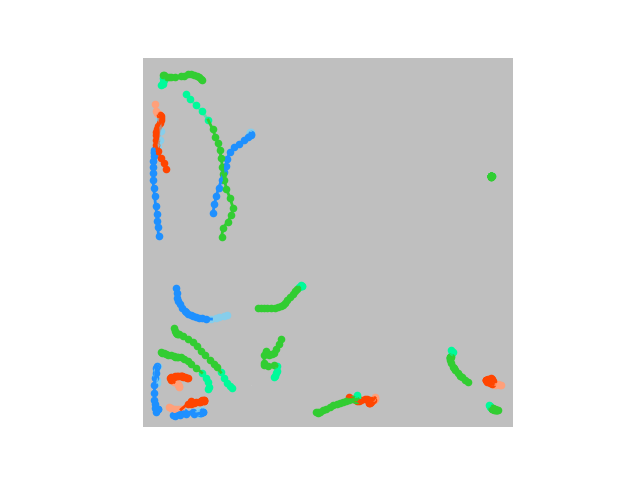
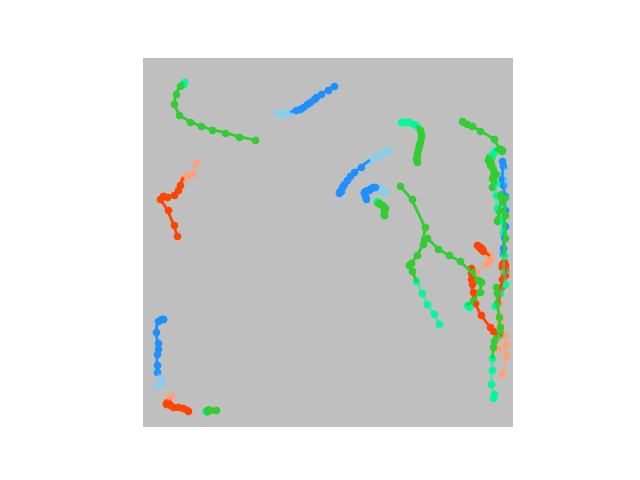
setting up experiments - still in mess3

diff --git a/experiments.py b/experiments.py
@@ -1,5 +1,5 @@
 import numpy as np
-
+import time
 import os
 import sys
 import argparse
@@ -43,7 +43,7 @@ print('device:',device)
 
 
 def train( train_loader, epoch, rel_rec, rel_send, model, encoder_timesteps, recompute_gap, total_pred_steps,tau):
-
+    starting_epoch_time = time.time()
     set_seed(42)
     model.train()
     total_iter_num = len(train_loader)
@@ -53,12 +53,14 @@ def train( train_loader, epoch, rel_rec, rel_send, model, encoder_timesteps, rec
     I_HG = None
     print(epoch , "epoch")
     for data in train_loader:
-        past_traj = data['past_traj']  # Shape: [batch_size, num_fish, obs_len, 2]
-        future_traj = data['future_traj']
+        past_traj = data['past_traj'].to(device)  # Shape: [batch_size, num_fish, obs_len, 2]
+        future_traj = data['future_traj'].to(device)
 
-        output_lists, h_g, h_hg, rel_rec, rel_send, L_SM, L_SH , L_SP, L_KL = model(past_traj,total_pred_steps,encoder_timesteps,recompute_gap,rel_rec,rel_send,tau,h_g, h_hg)
+        output_lists, h_g, h_hg, rel_rec, rel_send, L_SM, L_SH, L_SP, L_KL = model(past_traj, total_pred_steps,
+                                                                                   encoder_timesteps, recompute_gap,
+                                                                                   rel_rec, rel_send, tau, h_g, h_hg)
 
-        h_g = h_g.detach() if h_g is not None else None #for not breaking the computational graph!
+        h_g = h_g.detach() if h_g is not None else None  # for not breaking the computational graph!
         h_hg = h_hg.detach() if h_hg is not None else None
         # print(len(output_lists))
         #
@@ -69,23 +71,23 @@ def train( train_loader, epoch, rel_rec, rel_send, model, encoder_timesteps, rec
         #     iter_num += 1
 
         pred_trajs = torch.cat(output_lists["trajs"], dim=2)  # Concatenate along time (dim=2)
-        #prin("Concatenated predictions shape:", pred_trajs.shape)
-        #prin("future, ", future_traj.shape)
+        # prin("Concatenated predictions shape:", pred_trajs.shape)
+        # prin("future, ", future_traj.shape)
 
         # Compare predictions with ground truth
-        L_Rec = F.mse_loss(pred_trajs, future_traj, reduction='mean')  # Mean Squared Error
-        print("Reconstruction Loss (L_Rec):", L_Rec.item())
+        # L_Rec = F.mse_loss(pred_trajs, future_traj, reduction='mean')  # Mean Squared Error
+        # print("Reconstruction Loss (L_Rec):", L_Rec.item())
 
         means = torch.cat(output_lists["mus"], dim=2).mean(dim=3)
         L_Rec_2 = F.mse_loss(future_traj, means)
-        print("Reconstruction Loss 2 (L_Rec):", L_Rec_2.item())
 
-        print(L_SM.item())
-        print(L_SH.item())
-        print(L_SP.item())
-        print(L_KL.item())
-        print(iter_num, "iterations")
-        iter_num += 1
+        if iter_num % 2 == 0:
+            print("Reconstruction Loss 2 (L_Rec):", L_Rec_2.item())
+            print("L_SM", L_SM.item())
+            print("L_SH", L_SH.item())
+            print("L_SP", L_SP.item())
+            print("L_KL", L_KL.item())
+            print(iter_num, "iterations")
         # # Update inputs for the next batch
         # if trust_predictions:
         #     inputs = torch.cat((history_inputs[:, :, -(T_h - T_p):, :], output_traj), dim=2)
@@ -94,11 +96,19 @@ def train( train_loader, epoch, rel_rec, rel_send, model, encoder_timesteps, rec
         #
         """ optimize """
         optimizer.zero_grad()
-        total_loss = L_Rec_2  + L_SM+L_SH+L_SP
-        print("total_loss", total_loss.item())
+        total_loss = L_Rec_2 + L_SM + L_SH + L_SP + L_KL
+        if iter_num % 2 == 0:
+            print("total_loss", total_loss.item())
+            end_time = time.time()
+            elapsed_time = end_time - starting_epoch_time
+            print(f"Elapsed time for iteration {iter_num}: {elapsed_time:.2f} seconds")
+
         total_loss.backward()
         optimizer.step()
+        iter_num += 1
     scheduler.step()
+    loss_list = [L_SM.item(), L_SH.item(), L_SP.item(), L_KL.item(), L_Rec_2.item(), total_loss.item()]
+    return loss_list
 
 
         # if iter_num % iternum_print == 0:
@@ -111,10 +121,10 @@ def train( train_loader, epoch, rel_rec, rel_send, model, encoder_timesteps, rec
 
 ''' arguments'''
 
-lr = 1e-4
+lr = 0.001
 n_in = 10
 decay_step =10
-decay_gamma = 0.5
+decay_gamma = 0.85
 batch_size = 32
 num_epochs = 10
 n_hid = 128
@@ -122,9 +132,9 @@ n_out = 5
 tau = 1
 n_head=1
 do_prob = 0.2 #todo check this
-Ledge = 30
-Lhyper = 10
-num_cores= 5
+Ledge = 3
+Lhyper = 3
+num_cores= 3
 encoder_timesteps = 5
 recompute_gap = 5
 total_pred_steps=15
@@ -157,21 +167,22 @@ train_loader = DataLoader(
     pin_memory=True)
 
 
-edge = fully_connected_graph(agents_number)
-rel_rec, rel_send = edge_idx(edge,agents_number )
-rel_rec =rel_rec.unsqueeze(0)
-rel_send =rel_send.unsqueeze(0)
+
 
 
 """ start training """
 model.to(device)
 for epoch in range(0, num_epochs):
-    train(train_loader,epoch, rel_rec, rel_send, model,encoder_timesteps, recompute_gap, total_pred_steps,tau)
-
+    edge = fully_connected_graph(agents_number)
+    rel_rec, rel_send = edge_idx(edge, agents_number)
+    rel_rec = rel_rec.unsqueeze(0)
+    rel_send = rel_send.unsqueeze(0)
+    loss = train(train_loader, epoch, rel_rec, rel_send, model, encoder_timesteps, recompute_gap, total_pred_steps, tau)
 
     """ save model """
-    if  (epoch + 1) % model_save_epoch == 0:
-        model_saved = {'model_dict': model.state_dict(), 'optimizer': optimizer.state_dict(), 'scheduler': scheduler.state_dict(), 'epoch': epoch + 1}
-        saved_path = os.path.join(model_save_dir,str(epoch+1)+'.p')
+    if (epoch + 1) % model_save_epoch == 0:
+        model_saved = {'model_dict': model.state_dict(), 'optimizer': optimizer.state_dict(),
+                       'scheduler': scheduler.state_dict(), 'epoch': epoch + 1, 'loss': loss}
+        saved_path = os.path.join(model_save_dir, str(epoch + 1) + '.p')
         print("model saved")
         torch.save(model_saved, saved_path)

diff --git a/test_nba.py b/test_nba.py
@@ -20,21 +20,21 @@ class Constant:
     NORMALIZATION_COEF = 7
     PLAYER_CIRCLE_SIZE = 12 / NORMALIZATION_COEF
     INTERVAL = 10
-    # DIFF = 0
-    DIFF = 6
+    DIFF = 0
+    # DIFF = 6
     X_MIN = 0
-    # X_MAX = 1000
-    X_MAX = 100
+    X_MAX = 1000
+    # X_MAX = 100
     Y_MIN = 0
-    # Y_MAX = 1000
-    Y_MAX = 50
+    Y_MAX = 1000
+    # Y_MAX = 50
     COL_WIDTH = 0.3
     SCALE = 1.65
     FONTSIZE = 6
-    X_CENTER = X_MAX / 2 - DIFF / 1.5 + 0.10
-    # X_CENTER = 500
-    Y_CENTER = Y_MAX - DIFF / 1.5 - 0.35
-    # Y_CENTER = 500
+    # X_CENTER = X_MAX / 2 - DIFF / 1.5 + 0.10
+    X_CENTER = 500
+    # Y_CENTER = Y_MAX - DIFF / 1.5 - 0.35
+    Y_CENTER = 500
     MESSAGE = 'You can rerun the script and choose any event from 0 to '
 
 def draw_result(future,past,mode='pre'):
@@ -46,7 +46,7 @@ def draw_result(future,past,mode='pre'):
     for idx in range(10):
         plt.clf()
         traj = trajs[idx]#per batch?
-        traj = traj*94/28
+        # traj = traj*94/28
         actor_num = traj.shape[0]
         length = traj.shape[1]
         
@@ -93,15 +93,15 @@ def draw_result(future,past,mode='pre'):
                 else:
                     plt.plot(x, y, color=color,alpha=1,linewidth=2)
 
-        # court = plt.imread("datasets/fish/tank2.png")
-        court = plt.imread("datasets/nba/court.png")
+        court = plt.imread("datasets/fish/tank2.png")
+        # court = plt.imread("datasets/nba/court.png")
 
         plt.imshow(court, zorder=0, extent=[Constant.X_MIN, Constant.X_MAX - Constant.DIFF,
                                             Constant.Y_MAX, Constant.Y_MIN],alpha=0.5)
         if mode == 'pre':
-            plt.savefig('vis/nba_from_groupnet/'+str(idx)+'pre.png')
+            plt.savefig('vis/fish/'+str(idx)+'pre.png')
         else:
-            plt.savefig('vis/nba_from_groupnet/'+str(idx)+'gt.png')
+            plt.savefig('vis/fish/'+str(idx)+'gt.png')
     print('ok')
     return 
 
@@ -262,7 +262,7 @@ if __name__ == '__main__':
     torch.set_grad_enabled(False)
 
 
-    test_dset = NBADataset(
+    test_dset = FISHDataset(
         obs_len=args.past_length,
         pred_len=args.future_length,
         training=False)

diff --git a/model/encoder.py b/model/encoder.py
@@ -509,7 +509,7 @@ class MLPEncoder(nn.Module):
             self.out_dim = n_hid // num_heads
 
         # Final node MLP
-        self.f_CG_v = MLP(num_heads * self.out_dim if concat_heads else self.out_dim, self.out_dim, self.out_dim, do_prob)
+        self.f_CG_v = MLP(num_heads * self.out_dim if concat_heads else self.out_dim, self.out_dim, n_out, do_prob)
         self.mlp3 = MLP(n_hid, n_hid, n_hid, do_prob)
         self.mlp4 = MLP(n_hid * 3 if factor else n_hid * 2, n_hid, n_hid, do_prob)
         self.fc_out = nn.Linear(n_hid, n_out)
@@ -552,19 +552,21 @@ class MLPEncoder(nn.Module):
         # x = self.node2edge(x, rel_rec, rel_send)
 
         x = self.f_CG_v(v_social)
-        x_skip = x #skip connection
+        # x_skip = x #skip connection
+        #
+        # if self.factor:
+        #     x = self.node2edge(x, rel_rec, rel_send)
+        #     #print(f'this is X after edge to node{x.shape}')
+        #     x = self.mlp3(x)
+        #     x = self.edge2node(x, rel_rec, rel_send)
+        #     #print(f'this is X after node to edge 2 {x.shape}')
+        #     x = torch.cat((x, x_skip), dim=2) #back and forth conversion?
+        #     #print(f' x after skip connection{x.shape}')
+        #     x = self.mlp4(x)
+        # else:
+        #     x = self.mlp3(x)
+        #     x = torch.cat((x, x_skip), dim=2)
+        #     x = self.mlp4(x)
+        # return self.fc_out(x), v_self, alpha_ij
+        return x, v_self, alpha_ij
 
-        if self.factor:
-            x = self.node2edge(x, rel_rec, rel_send)
-            #print(f'this is X after edge to node{x.shape}')
-            x = self.mlp3(x)
-            x = self.edge2node(x, rel_rec, rel_send)
-            #print(f'this is X after node to edge 2 {x.shape}')
-            x = torch.cat((x, x_skip), dim=2) #back and forth conversion?
-            #print(f' x after skip connection{x.shape}')
-            x = self.mlp4(x)
-        else:
-            x = self.mlp3(x)
-            x = torch.cat((x, x_skip), dim=2)
-            x = self.mlp4(x)
-        return self.fc_out(x), v_self, alpha_ij

diff --git a/model/decoder.py b/model/decoder.py
@@ -177,7 +177,7 @@ class RNNDecoder(nn.Module):
             F.relu(self.out_fc1(torch.cat((hidden_g, hidden_hg), dim=-1))),
             p=self.dropout_prob,)
 
-        v = F.dropout(F.relu(self.out_fc2(v)), p=self.dropout_prob)
+        # v = F.dropout(F.relu(self.out_fc2(v)), p=self.dropout_prob)
 
         #print("v", v.shape)
         # print(pred[0,0])
@@ -234,7 +234,7 @@ class RNNDecoder(nn.Module):
         hidden_hg =1
 
         for step in range(output_steps):
-            print("@@@@@@@@@@@@@@@@@@@@@@@@@@@@@@@@@@@ step", step)
+            # print("@@@@@@@@@@@@@@@@@@@@@@@@@@@@@@@@@@@ step", step)
             if step < burn_in_steps:
                 ins = inputs[:, step, :, :] #takes only 1 T?...
             else:
@@ -262,7 +262,7 @@ class RNNDecoder(nn.Module):
         mus = torch.stack(mu_all, dim=2)
         sigmas = torch.stack(sigma_all, dim=2)
 
-        print(preds.transpose(1, 2).contiguous().shape, alphas.shape, mus.shape, sigmas.shape)
+        # print(preds.transpose(1, 2).contiguous().shape, alphas.shape, mus.shape, sigmas.shape)
         # print(preds.transpose(1, 2).contiguous())
         # print(data)
         return preds.transpose(1, 2).contiguous(), alphas, mus, sigmas

diff --git a/model/HGNN_model_fish.py b/model/HGNN_model_fish.py
@@ -249,7 +249,7 @@ class HGNNModelFish(nn.Module):
 
             # print("new_rel_rec", new_rel_rec.shape)
             # print("new_rel_rec", new_rel_rec)
-            print("new_hyperedge_types", new_hyperedge_types)
+            # print("new_hyperedge_types", new_hyperedge_types)
             # print("new_I_HG", new_I_HG)
 
             rel_rec = new_rel_rec
@@ -288,10 +288,10 @@ class HGNNModelFish(nn.Module):
             output_lists["mus"].append(mus)
             output_lists["sigmas"].append(sigmas)
 
-        L_SM = compute_smoothness_loss(Z_CG_LIST,Z_HG_LIST,0.1,0.1)
-        L_SH = sharpnessLoss(Z_CG_LIST,Z_HG_LIST,0.1,0.1)
-        L_SP = sparsity_loss(Z_CG_LIST,Z_HG_LIST,0.1,0.1, self.device)
-        L_KL = compute_kl_divergence_loss(Z_CG_LIST,Z_HG_LIST,0.1,0.1)
+        L_SM = compute_smoothness_loss(Z_CG_LIST,Z_HG_LIST,0.001,0.001)
+        L_SH = sharpnessLoss(Z_CG_LIST,Z_HG_LIST,0.001,0.001)
+        L_SP = sparsity_loss(Z_CG_LIST,Z_HG_LIST,0.001,0.001, self.device)
+        L_KL = compute_kl_divergence_loss(Z_CG_LIST,Z_HG_LIST,0.001,0.001)
 
         return output_lists,h_g, h_hg, rel_rec, rel_send, L_SM, L_SH, L_SP, L_KL
 

diff --git a/data/dataloader_nba.py b/data/dataloader_nba.py
@@ -36,9 +36,9 @@ class NBADataset(Dataset):
         self.trajs /= (94/28) # Turn to meters
 
         if training:
-            self.trajs = self.trajs[:10] #32500
+            self.trajs = self.trajs[:32500] #32500
         else:
-            self.trajs = self.trajs[10:30] #12500
+            self.trajs = self.trajs[32500:] #12500
 
         self.batch_len = len(self.trajs)
         print(self.batch_len)
